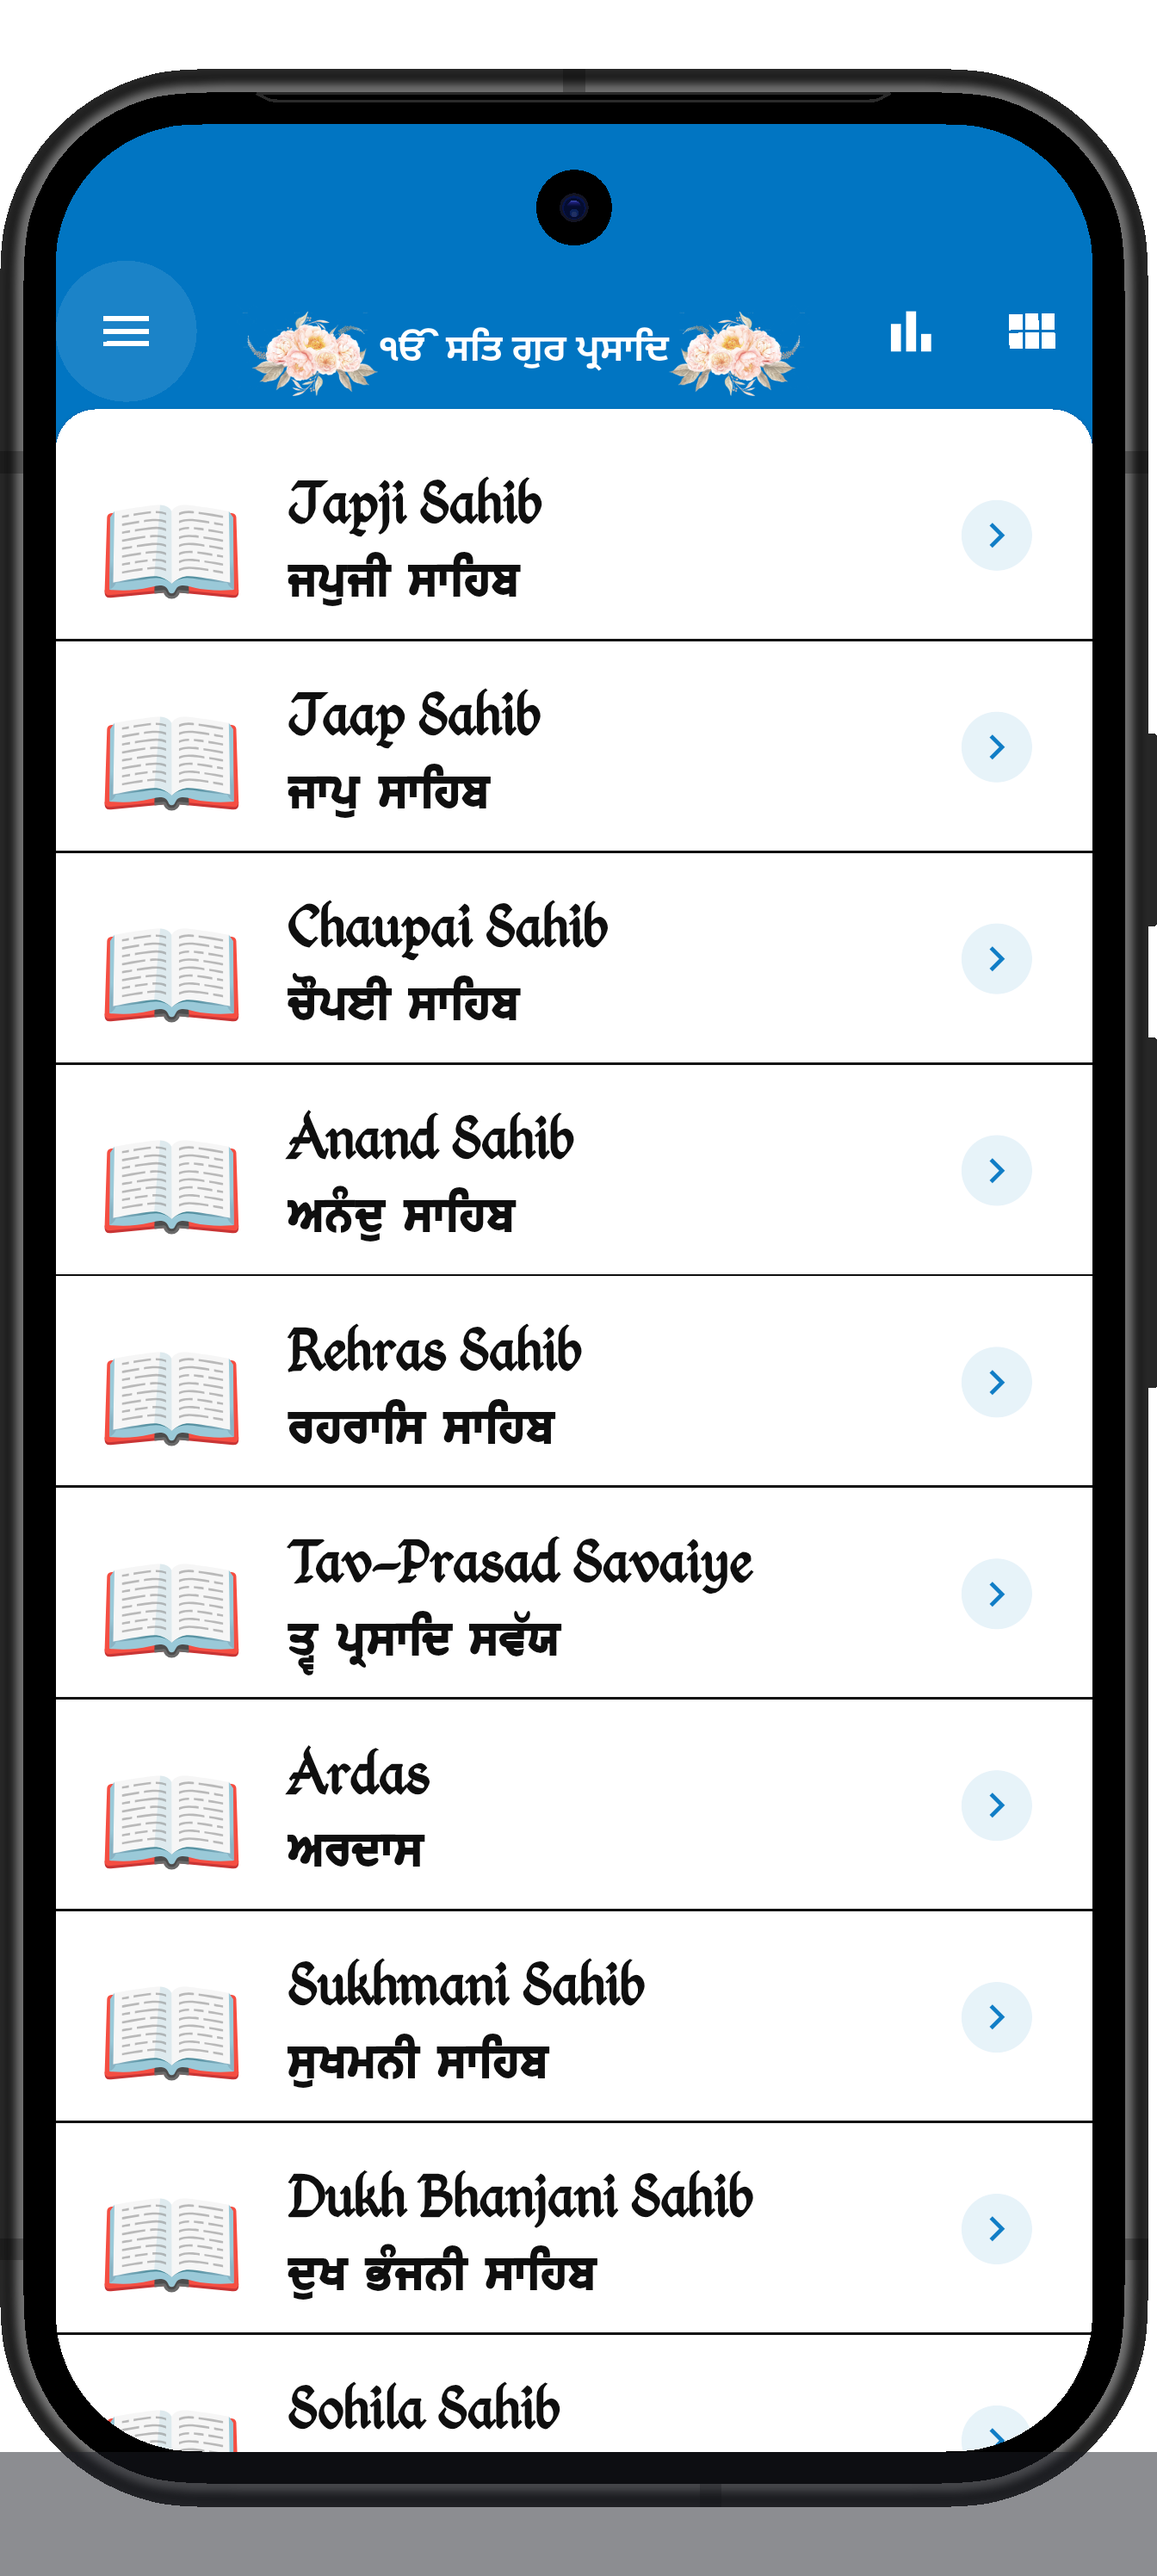
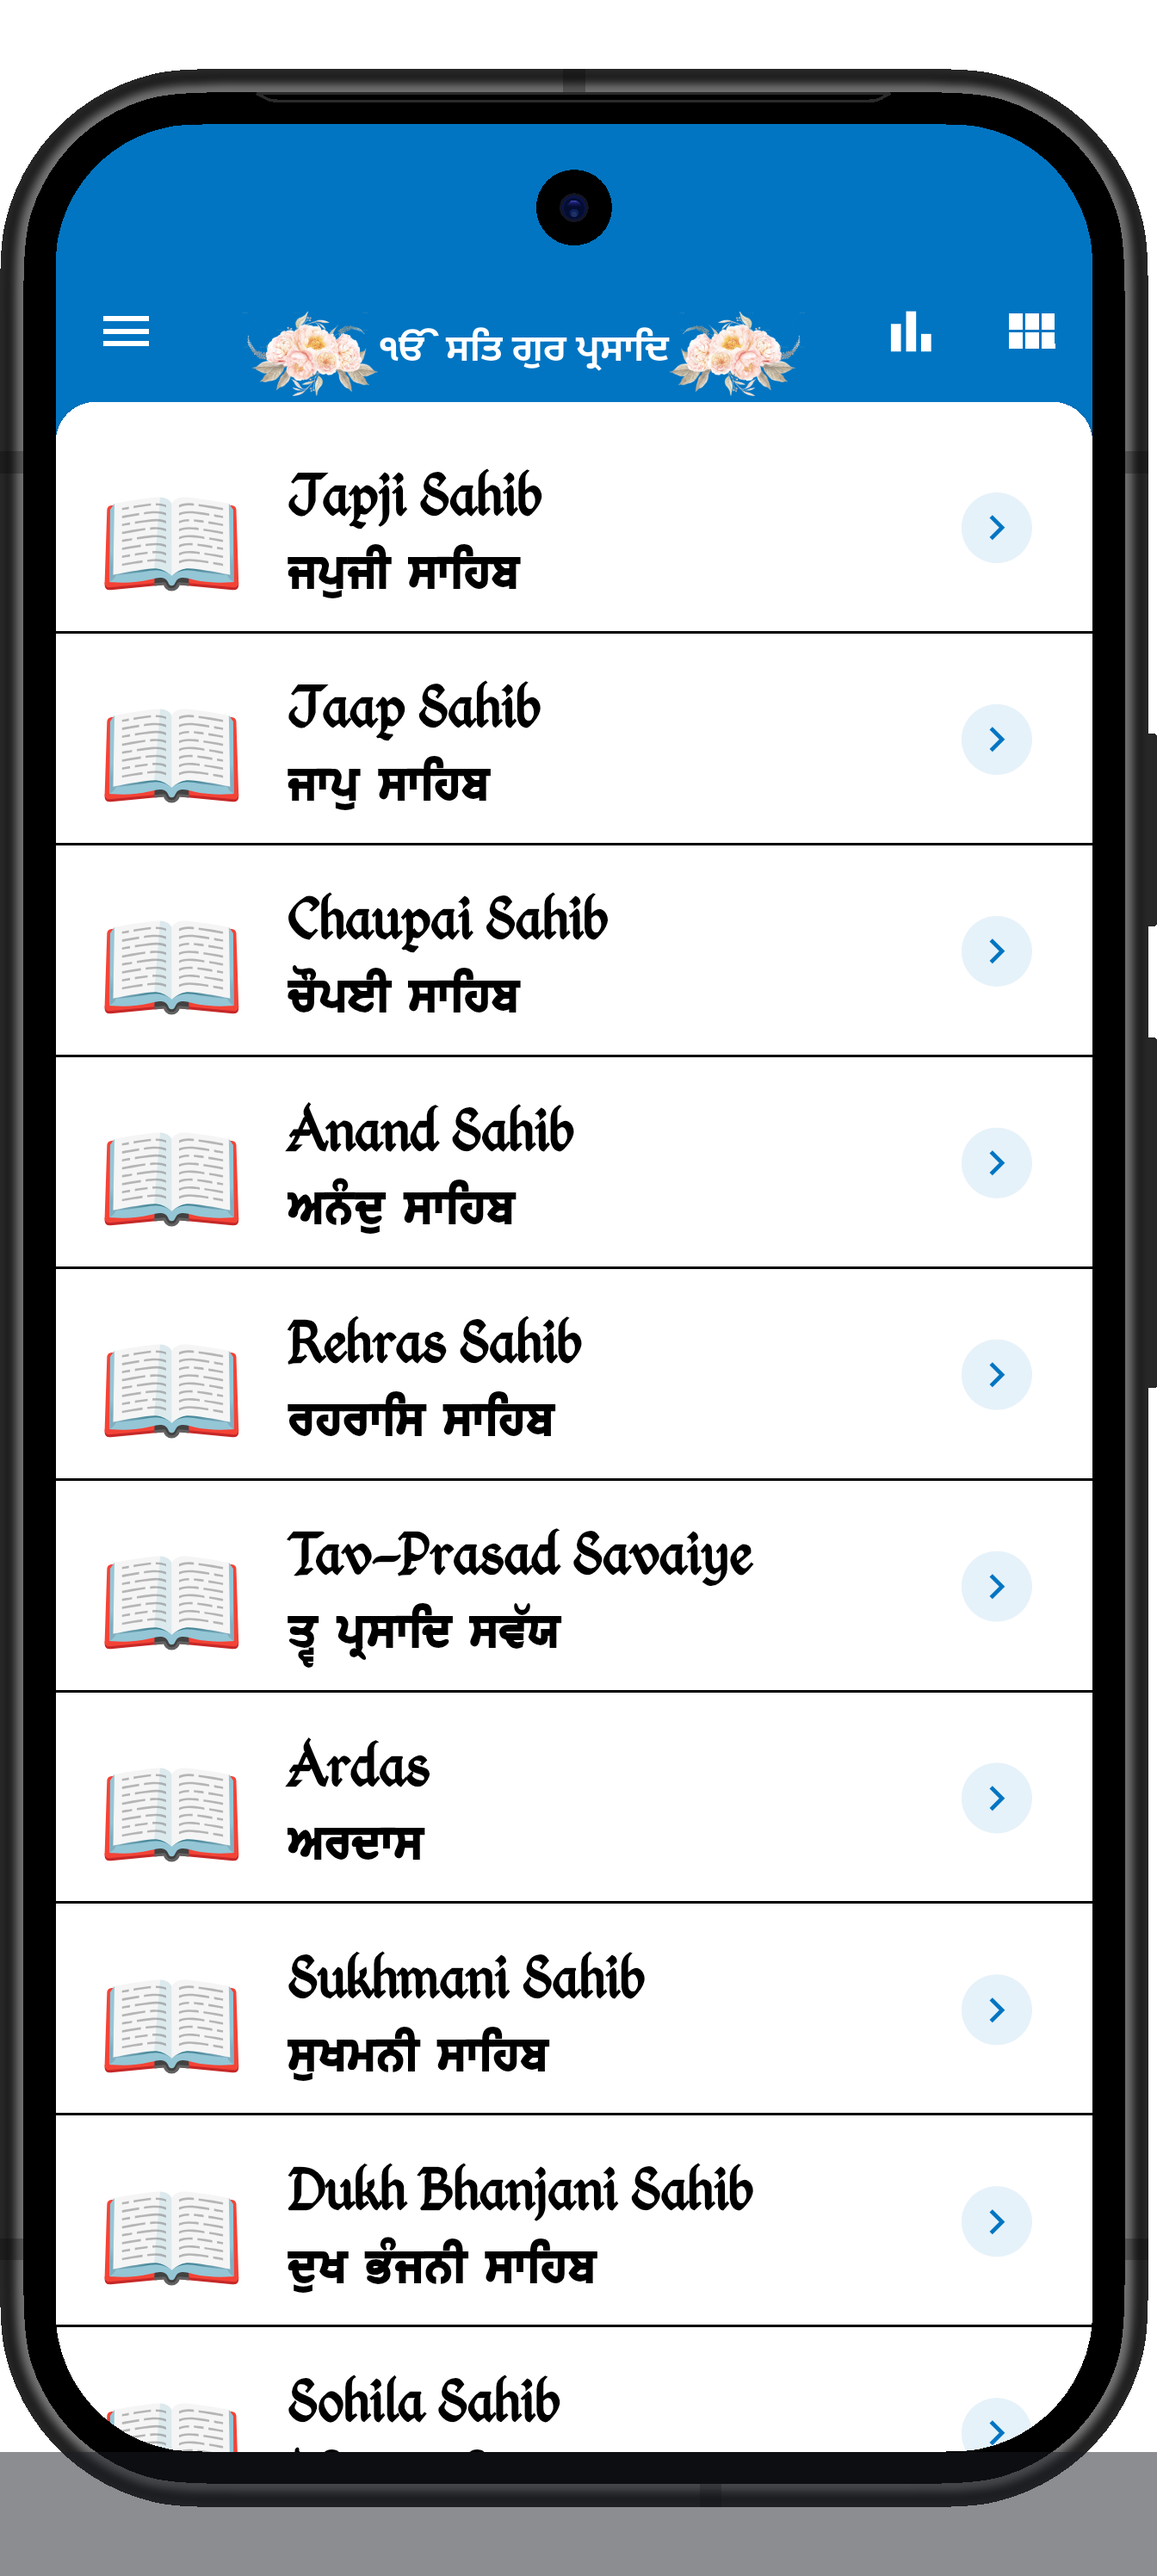
Refactor screenshot tests to use helper functions for capturing screenshots and improve scroll position handling; update reader screen to use kToolbarHeight for app bar

diff --git a/integration_test/screenshot_test.dart b/integration_test/screenshot_test.dart
@@ -68,6 +68,61 @@ void main() {
     await binding.convertFlutterSurfaceToImage();
     await tester.pump(const Duration(milliseconds: 500));
 
+    // Helper to capture screenshot without pointer/crosshair and at top
+    Future<void> capture(String name) async {
+      print('📸 Capturing $name...');
+      
+      // Ensure we are at the top of the scroll view for reader screens
+      try {
+        final scrollableFinder = find.byType(Scrollable);
+        if (scrollableFinder.evaluate().isNotEmpty) {
+          final ScrollableState state = tester.state(scrollableFinder.last);
+          state.position.jumpTo(0.0);
+          await tester.pump();
+        }
+      } catch (e) {
+        print('⚠ Could not reset scroll position for $name');
+      }
+
+      // Wait for any animations and pointer indicators to clear
+      // pumpAndSettle with a duration ensures transient tap indicators fade out
+      await tester.pump(const Duration(seconds: 3));
+      await tester.pumpAndSettle();
+      
+      await binding.takeScreenshot(name);
+      await tester.pump(const Duration(milliseconds: 500));
+    }
+
+    // Helper to tap and wait for state change
+    Future<void> tapChip(String label, {bool isTheme = false, String? expectedValue}) async {
+      print('🔘 Selecting ${isTheme ? "theme" : "language"}: $label...');
+      final String targetValue = isTheme ? expectedValue! : label;
+      
+      // We use dispatch as the primary mechanism because DeviceFrame scaling + SliverAppBar FlexibleSpace
+      // makes UI hit-testing extremely fragile in integration tests.
+      if (isTheme) {
+        store.dispatch(ChangeThemeAction(targetValue));
+      } else {
+        store.dispatch(ChangeLanguageAndFetchNitnemPathAction(targetValue, store.state.pathFilePrefix));
+      }
+      
+      await tester.pumpAndSettle();
+      
+      // Visually update the UI if possible, but don't fail if it's tricky
+      try {
+        final chipFinder = find.widgetWithText(ChoiceChip, label, skipOffstage: false);
+        if (chipFinder.evaluate().isNotEmpty) {
+          // We just pump enough to show the selection visually if needed, 
+          // but we won't tap if it might disturb the scroll position.
+          await tester.pumpAndSettle();
+        }
+      } catch (e) {}
+      
+      // Guarantee any async loading (assets/fonts/images) has time to settle
+      await tester.pump(const Duration(seconds: 2));
+      await tester.pumpAndSettle();
+    }
+
     // 1. Options (Home Screen Backdrop)
     print('🎨 Selecting Default Theme via UI...');
     final backdropToggle = find.byType(BackdropToggleButton).first;
@@ -80,57 +135,21 @@ void main() {
     await tester.tap(defaultTheme, warnIfMissed: false);
     await tester.pumpAndSettle();
 
-    print('📸 Capturing Options Screen...');
-    await binding.takeScreenshot('options');
-    await tester.pump(const Duration(milliseconds: 500));
+    await capture('options');
 
     // 2. Main Screen
     print('🔘 Closing options menu...');
     await tester.tap(backdropToggle);
     await tester.pumpAndSettle();
 
-    print('📸 Capturing Main Screen...');
-    await binding.takeScreenshot('mainscreen');
-    await tester.pump(const Duration(milliseconds: 500));
+    await capture('mainscreen');
 
     // 3. Reader Screen (Gurmukhi) - Tap 'Japji Sahib'
     print('📖 Opening Japji Sahib...');
     await tester.tap(find.text('Japji Sahib'));
     await tester.pumpAndSettle();
 
-    print('📸 Capturing Path Gurmukhi...');
-    await binding.takeScreenshot('path-gurmukhi');
-    await tester.pump(const Duration(milliseconds: 500));
-
-    // Helper to tap and wait for state change
-    Future<void> tapChip(String label, {bool isTheme = false, String? expectedValue}) async {
-      print('🔘 Selecting ${isTheme ? "theme" : "language"}: $label...');
-      
-      final String targetValue = isTheme ? expectedValue! : label;
-      
-      // Use dispatch directly for maximum reliability in reader screen
-      // UI tapping in a nested ListView within a SliverAppBar under DeviceFrame is inherently flaky
-      if (isTheme) {
-        store.dispatch(ChangeThemeAction(targetValue));
-      } else {
-        store.dispatch(ChangeLanguageAndFetchNitnemPathAction(targetValue, store.state.pathFilePrefix));
-      }
-      
-      // Wait for state change and any async work
-      for (int i = 0; i < 20; i++) {
-        await tester.pump(const Duration(milliseconds: 200));
-        final currentState = isTheme ? store.state.options.themeName : store.state.options.languageName;
-        if (currentState == targetValue) {
-          print('✅ State confirmed updated to $targetValue');
-          break;
-        }
-      }
-      
-      await tester.pumpAndSettle();
-      // Additional wait for potential asset loading (background image or path text)
-      await tester.pump(const Duration(seconds: 1));
-      await tester.pumpAndSettle();
-    }
+    await capture('path-gurmukhi');
 
     // 4. Path Hindi
     print('🔘 Switching to Hindi via UI...');
@@ -148,9 +167,7 @@ void main() {
     await tester.tap(optionsButton, warnIfMissed: false);
     await tester.pumpAndSettle();
 
-    print('📸 Capturing Path Hindi...');
-    await binding.takeScreenshot('path-hindi');
-    await tester.pump(const Duration(milliseconds: 500));
+    await capture('path-hindi');
 
     // 5. Path English
     print('🔘 Switching to English via UI...');
@@ -163,9 +180,7 @@ void main() {
     await tester.tap(optionsButton, warnIfMissed: false);
     await tester.pumpAndSettle();
 
-    print('📸 Capturing Path English...');
-    await binding.takeScreenshot('path-english');
-    await tester.pump(const Duration(milliseconds: 500));
+    await capture('path-english');
 
     // --- Themes ---
     
@@ -180,9 +195,7 @@ void main() {
     await tester.tap(optionsButton, warnIfMissed: false);
     await tester.pumpAndSettle();
     
-    print('📸 Capturing Forest Theme...');
-    await binding.takeScreenshot('foresttheme');
-    await tester.pump(const Duration(milliseconds: 500));
+    await capture('foresttheme');
 
     // 7. Wood Theme
     print('🎨 Switching to Wood Theme via UI...');
@@ -195,9 +208,7 @@ void main() {
     await tester.tap(optionsButton, warnIfMissed: false);
     await tester.pumpAndSettle();
 
-    print('📸 Capturing Wood Theme...');
-    await binding.takeScreenshot('woodtheme');
-    await tester.pump(const Duration(milliseconds: 500));
+    await capture('woodtheme');
 
     // 8. Stars Theme (Dark) on Main Screen
     print('🏠 Going back to Home Screen for Dark Theme...');
@@ -222,9 +233,7 @@ void main() {
     await tester.tap(homeBackdropToggle);
     await tester.pumpAndSettle();
 
-    print('📸 Capturing Dark Theme (Main Screen)...');
-    await binding.takeScreenshot('darktheme');
-    await tester.pump(const Duration(milliseconds: 500));
+    await capture('darktheme');
 
     print('✅ Screenshot generation complete!');
   });

diff --git a/lib/pages/readerscreen.dart b/lib/pages/readerscreen.dart
@@ -268,7 +268,7 @@ class _MyReaderPageState extends State<ReaderScreen> with WidgetsBindingObserver
                         expandedHeight:
                             vm.showReaderOptions
                                 ? AppConstants.EXPANDED_APP_BAR
-                                : AppConstants.COLLAPSED_APP_BAR,
+                                : kToolbarHeight,
                         flexibleSpace: FlexibleSpaceBar(
                           title: Text(
                             (vm.showReaderOptions)
